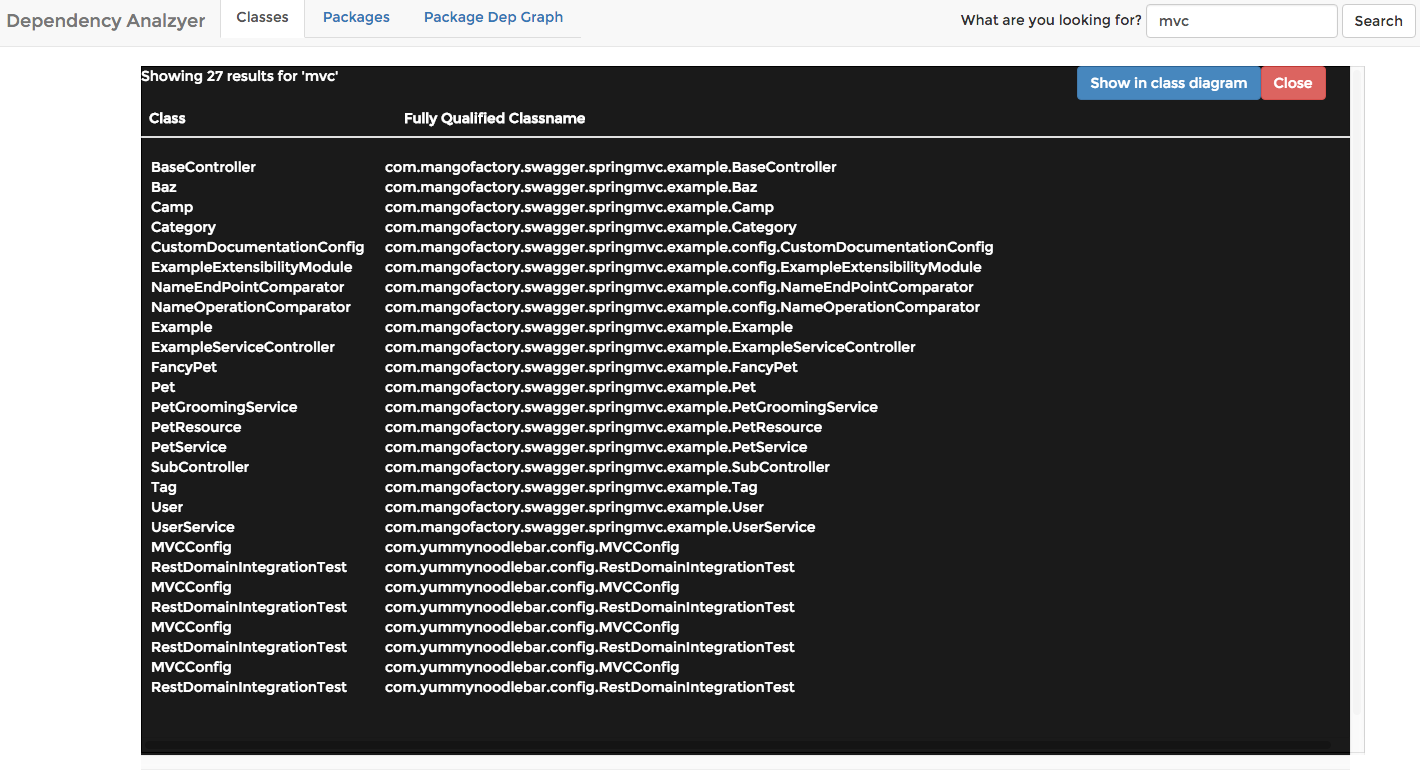
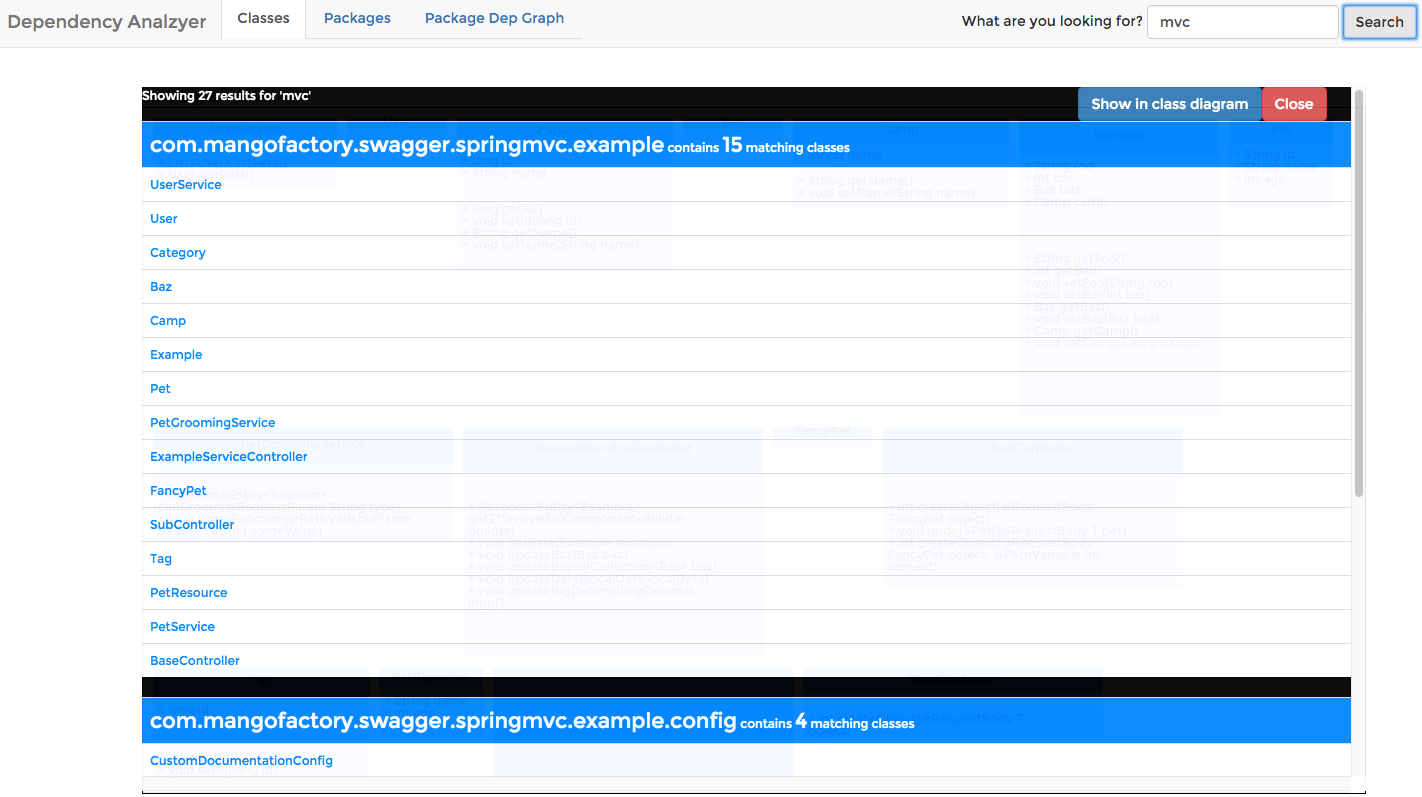
Changed class search functionality to also display the package of the classes found.  Search results are now grouped by package and then with classes underneath.  #5

diff --git a/app/scripts/classdiagrams.js b/app/scripts/classdiagrams.js
@@ -15,7 +15,7 @@ function searchWithinClasses(searchCriteria, displayOnGraph) {
     //console.log("searching for: " + searchCriteria);
 
     // The query
-    var query= {"statements":[{"statement":"MATCH (j:JavaClass) WHERE ANY(fullyQualifiedName IN j.fullyQualifiedName WHERE fullyQualifiedName  =~ '(?i).*" + searchCriteria + ".*') OR ANY(method IN j.publicMethods WHERE method  =~ '(?i).*" + searchCriteria + ".*') OR ANY(var IN j.privateInstanceVariables WHERE var  =~ '(?i).*" + searchCriteria + ".*') RETURN DISTINCT j;",
+    var query= {"statements":[{"statement":"MATCH (p:JavaPackage)-[CONTAINS_CLASS]->(j:JavaClass) WHERE ANY(fullyQualifiedName IN j.fullyQualifiedName WHERE fullyQualifiedName  =~ '(?i).*" + searchCriteria + ".*') OR ANY(method IN j.publicMethods WHERE method  =~ '(?i).*" + searchCriteria + ".*') OR ANY(var IN j.privateInstanceVariables WHERE var  =~ '(?i).*" + searchCriteria + ".*') RETURN j, p as package;",
     "resultDataContents":["graph","row"]}]};
 
     search(query, displayOnGraph);
@@ -80,13 +80,28 @@ function search(query, displayOnGraph) {
                     $("#showingpackage").html("Showing " + classes.length + " results");
                 } else {
                     // display in search results
-                    $("#searchresults").html("<div>Showing " + data.results[0].data.length + " results for '" + $("#classsearchinput").val() + "'" + "</div><table class='table table-hover'><thead><tr><th>Class</th><th>Fully Qualified Classname</th></tr></thead><tbody>");
+                    $("#searchresults").html("<div>Showing " + data.results[0].data.length + " results for '" + $("#classsearchinput").val() + "'");
 
-                    $.each(data.results[0].data, function(index, element) {
-                        $("#searchresults").append("<tr><td>" + element.row[0].name + "</td><td><span class='classspan'>" + element.row[0].fullyQualifiedName + "</span></td></tr>");
+                    // listing grouped by package - packageSet['pkgName']
+                    var packageMap =  _.groupBy(data.results[0].data, function(cur) {
+                        return cur.row[1].name;
                     });
 
-                    $("#searchresults").append("</tbody></table>");
+                    $.each(packageMap, function(packageNameKey, classArray) {
+
+                        var tableHtml = "";
+
+                        tableHtml += "<table class='table'><tbody>";
+                        tableHtml += "<tr><td class='packageresult'><span class='lead'>" + packageNameKey + "</span> contains <span class='lead'>" + classArray.length + "</span> matching classes</td></tr>";
+
+                        $.each(classArray, function(curPackage, curClassArray) {
+                            tableHtml += "<tr><td class='classresult'>" + curClassArray.row[0].name + "</td></tr>";
+                        });
+                        tableHtml += "</tbody></table>";
+
+                        $("#searchresults").append(tableHtml);
+                    });
+
                 }
 
         }
@@ -295,6 +310,7 @@ joint.layout.SimpleFitLayout = {
 // use this to do something upon right click like 
 // pop up a modal
 // http://jointjs.com/api#joint.dia.Paper%3aevents
+// http://stackoverflow.com/questions/4666367/how-do-i-position-a-div-relative-to-the-mouse-pointer-using-jquery
 paper.on('cell:contextmenu ',
     function(cellView, evt, x, y) {
         evt.preventDefault();
@@ -303,7 +319,7 @@ paper.on('cell:contextmenu ',
         updateClassDetails(cellView.model.attributes);
 
         // show modal at point of right click
-        $("#classdetails").css({'top':evt.pageY,'left':evt.pageX}).fadeIn('slow');
+        $("#classdetails").css({'top':evt.pageY - 20,'left':evt.pageX - 20}).fadeIn('slow');
     }
 );
 

diff --git a/app/styles/main.scss b/app/styles/main.scss
@@ -4,16 +4,9 @@ $icon-font-path: "../bower_components/bootstrap-sass/assets/fonts/bootstrap/";
 @import "bootstrap-sass/assets/stylesheets/_bootstrap.scss";
 // endbower
 
-.browsehappy {
-  margin: 0.2em 0;
-  background: #ccc;
-  color: #000;
-  padding: 0.2em 0;
-}
-
 /* Space out content a bit */
 body {
-  font-family: 'font-family: 'Montserrat', sans-serif;', sans-serif;
+  font-family: 'Montserrat', sans-serif;
   padding-top: 70px;
   padding-bottom: 20px;
 }
@@ -46,32 +39,10 @@ body {
   border-top: 1px solid #e5e5e5;
 }
 
-.container-narrow > hr {
-  margin: 30px 0;
-}
-
-/* Main marketing message and sign up button */
-.jumbotron {
-  text-align: center;
-  border-bottom: 1px solid #e5e5e5;
-  .btn {
-    font-size: 21px;
-    padding: 14px 24px;
-  }
-}
-
-/* Supporting marketing content */
-.marketing {
-  margin: 40px 0;
-  p + h4 {
-    margin-top: 28px;
-  }
-}
-
 /* Responsive: Portrait tablets and up */
 @media screen and (min-width: 768px) {
   .container {
-    max-width: 1400px;
+
   }
 
   /* Remove the padding we set earlier */
@@ -87,11 +58,6 @@ body {
     margin-bottom: 30px;
   }
 
-  /* Remove the bottom border on the jumbotron for visual effect */
-  .jumbotron {
-    border-bottom: 0;
-  }
-
   .paper {
     border: 1px solid black;
     height: 83vh;
@@ -99,7 +65,7 @@ body {
   }
 
   rect, text {
-    font-family: 'font-family: 'Montserrat', sans-serif;', sans-serif;
+    font-family: 'Montserrat', sans-serif;
     font-size:12px;
   }
 
@@ -116,7 +82,7 @@ body {
   }
 
   #alchemy {
-    //height:400px;
+
   }
 
   #main-body {
@@ -126,15 +92,16 @@ body {
     float: left;
   }
   #search {
+      font-size:12px;
       display:none;
       position:absolute;
       width: 85vw;
       height: 85vh;
       float: none;
       margin: 0 auto;
-      color: #fff;
-      background-color: #000;
-      opacity: 0.9;
+      color: #ffffff;
+      background-color: #000000;
+      opacity: 0.95;
       overflow:scroll;
   }
   #closesearch {
@@ -143,11 +110,6 @@ body {
   }
   #showindiagram {
     float:right;
-  }
-
-  td {
-    padding-left: 10px;
-    padding-right: 10px;
   }
 
   #navsearch {
@@ -164,5 +126,17 @@ body {
     padding: 30px;
     display: none;
     position:absolute;
+  }
+
+  .packageresult {
+    background-color: #0086FF;
+    color: #ffffff;
+    padding: 30px;
+  }
+
+  .classresult {
+    background-color: #ffffff;
+    color: #0086FF;
+    padding: 30px;
   }
 }
